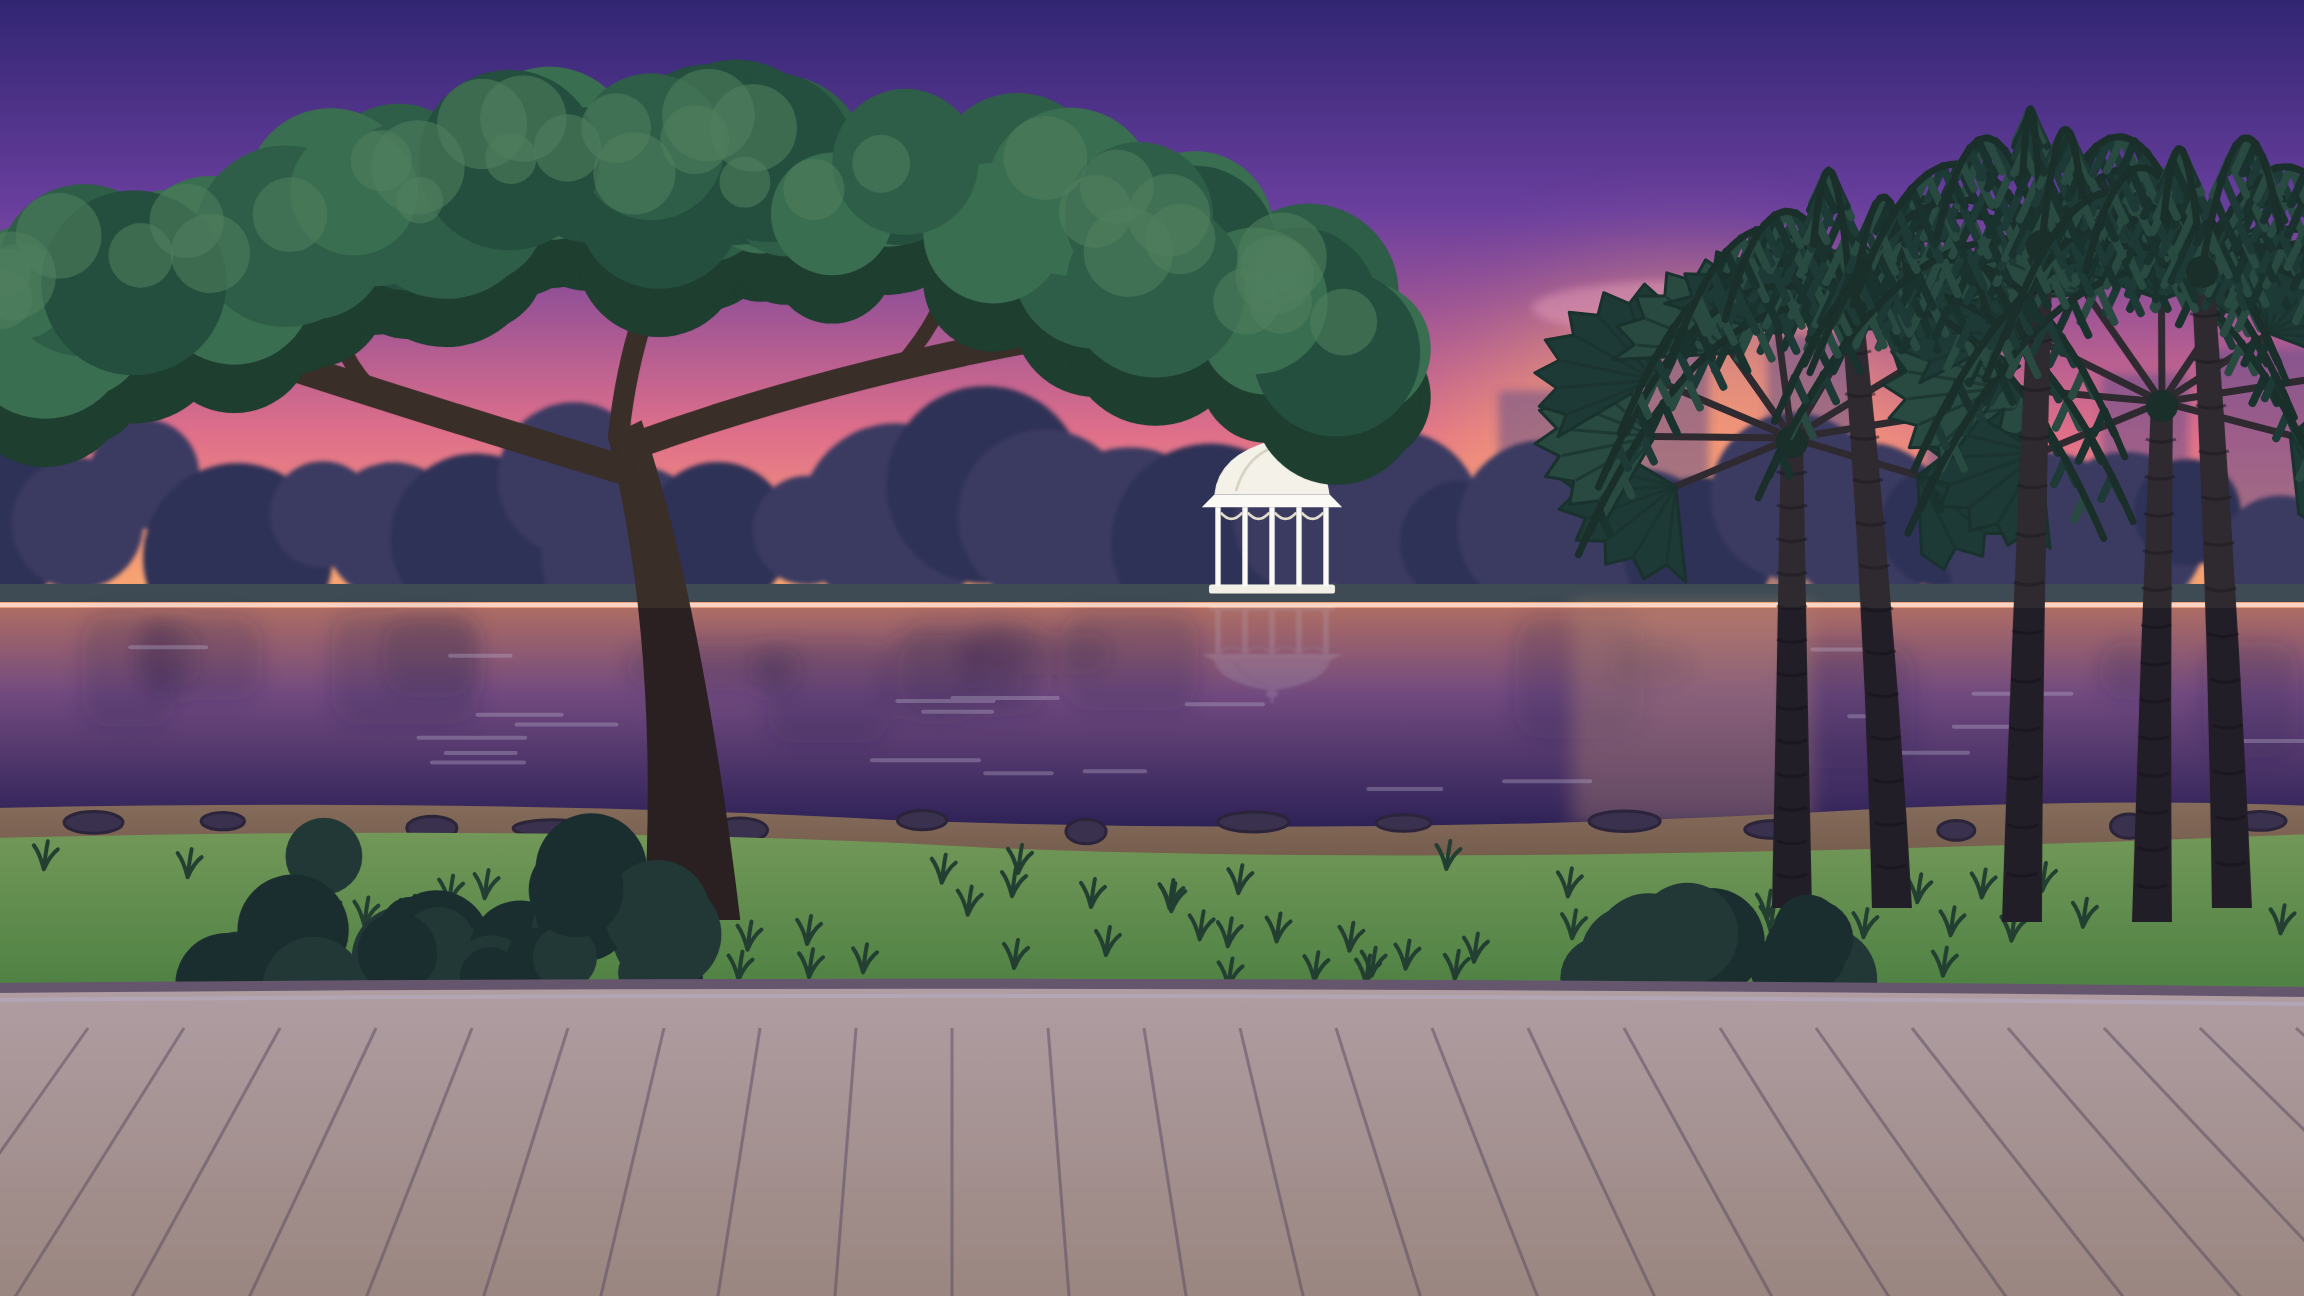
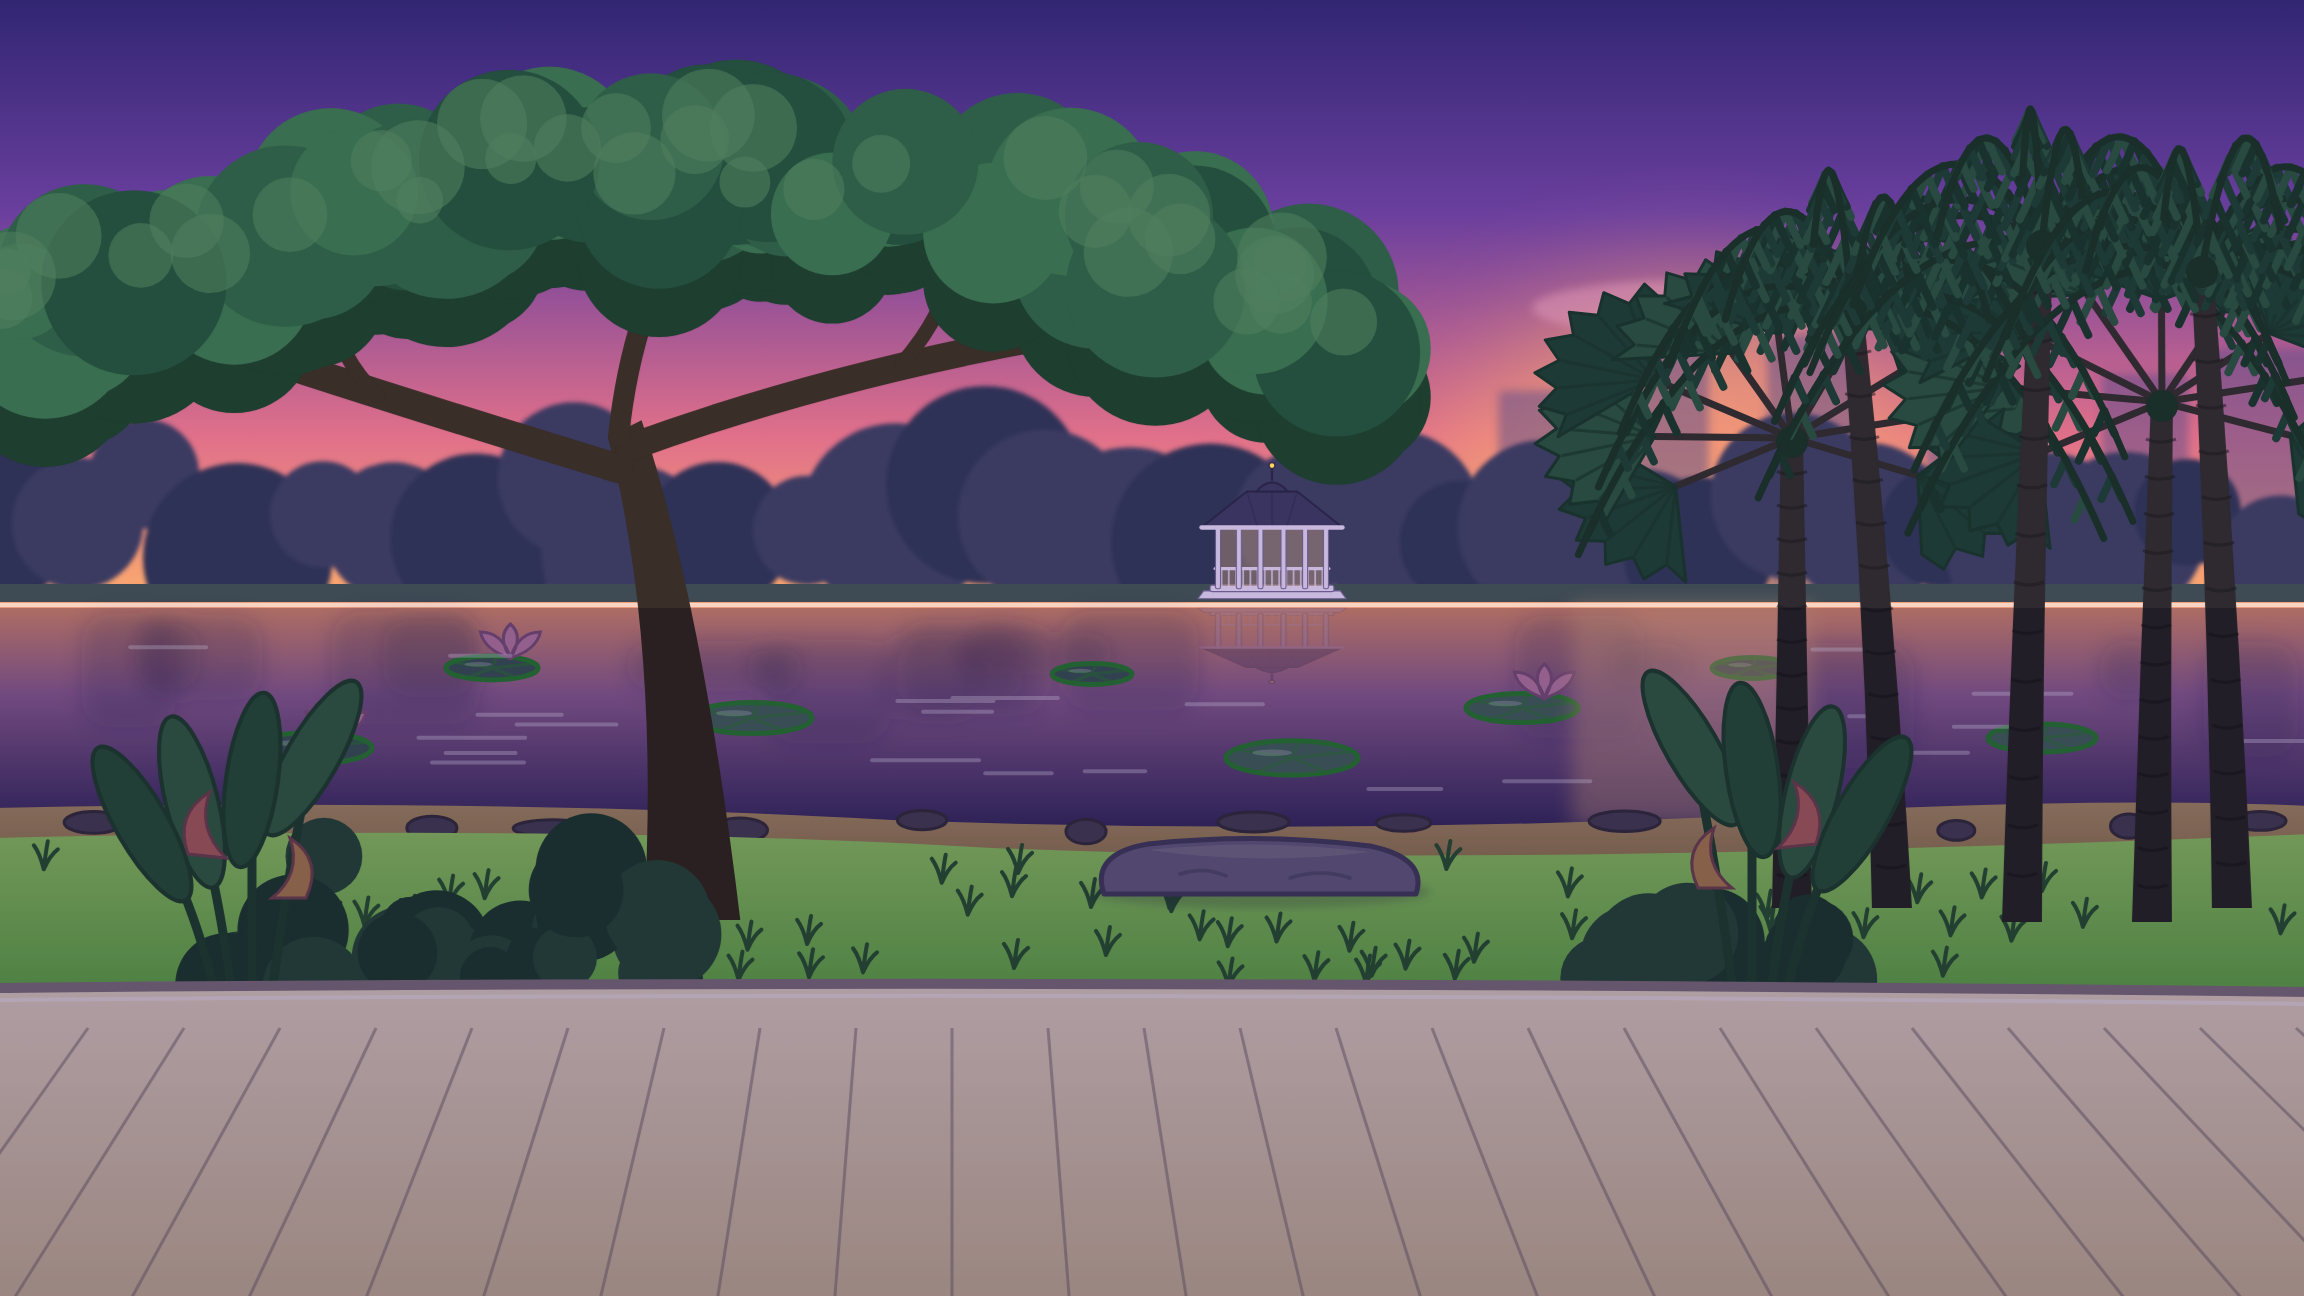
Work in progress (snapshot)
Claude-Session: https://claude.ai/code/session_017vcscXTweEdXk7zMTDrzTD

diff --git a/production/workspace/explained2/ep06/gardens.js b/production/workspace/explained2/ep06/gardens.js
@@ -60,19 +60,29 @@ function lakeSet(mode) { const r = rndm(606), dk = mode === "dusk"; let far = ""
   ${dk ? `<circle cx="1500" cy="440" r="260" fill="#FFB46A" opacity=".55" filter="url(#b60)"/><circle cx="1500" cy="452" r="70" fill="#FFD9A0" opacity=".9"/>` : `<circle cx="160" cy="40" r="300" fill="url(#gdSun)"/><circle cx="160" cy="40" r="64" fill="#FFFBEA"/>`}
   <g fill="${dk ? "#E9A2C0" : "#fff"}" opacity="${dk ? .45 : .85}" filter="url(#b4)"><ellipse cx="700" cy="120" rx="190" ry="34"/><ellipse cx="840" cy="94" rx="110" ry="30"/><ellipse cx="1500" cy="200" rx="160" ry="28"/></g>
   <g filter="url(#b4)">${towers}</g><g filter="url(#b2)">${far}</g>
-  <rect x="-200" y="476" width="2320" height="22" fill="${dk ? "#3E4A54" : "#7DBF68"}"/>${TF(GD.gazebo[0], GD.gazebo[1] + 4, .9, gazebo())}
+  <rect x="-200" y="476" width="2320" height="22" fill="${dk ? "#3E4A54" : "#7DBF68"}"/>${TF(GD.gazebo[0], GD.gazebo[1] + 2, .36, bandstandF(dk))}
   <rect x="-200" y="494" width="2320" height="230" fill="url(#${dk ? "gdLakeD" : "gdLake"})"/><g filter="url(#b10)">${refl}</g>
-  <g transform="translate(${GD.gazebo[0]} 500) scale(.9 -.5)" opacity=".25" filter="url(#b2)">${gazebo()}</g>
+  <g transform="translate(${GD.gazebo[0]} 506) scale(.36 -.2)" opacity=".28" filter="url(#b2)">${bandstandF(dk)}</g>${[[300, 560, 46], [560, 610, 60], [900, 566, 40], [1330, 600, 56], [1560, 560, 40], [1100, 650, 66], [120, 640, 60], [1850, 630, 54]].map(([x, y, rx], i) => TF(x, y, 1, lilyPad(rx, dk ? (i % 2 ? "#4E6E6A" : "#445E62") : (i % 2 ? "#6FD06A" : "#5CC455")) + (i % 3 === 0 ? `<g transform="translate(${rx * .4} -10)"><path d="M0 0 q-14 -22 0 -34 q14 12 0 34z M0 0 q-26 -8 -30 -26 q22 0 30 26z M0 0 q26 -8 30 -26 q-22 0 -30 26z" fill="${dk ? "#C88AB0" : "#FF9EC4"}" stroke="${dk ? "#8A5A86" : "#D9608E"}" stroke-width="3"/></g>` : ""))).join("")}
   ${dk ? `<rect x="1380" y="498" width="240" height="220" fill="#FFC890" opacity=".35" filter="url(#b10)"/>` : ""}
   <path d="M-200 497 H2120" stroke="#fff" stroke-width="4" opacity=".55"/>
   <g fill="none" stroke="#fff" stroke-width="4" stroke-linecap="round" opacity=".35">${Array.from({ length: 22 }, () => { const x = -150 + r() * 2200, y = 520 + r() * 170; return `<path d="M${n2(x)} ${n2(y)} h${n2(30 + r() * 80)}"/>`; }).join("")}</g>
   <path d="M-200 700 Q300 690 700 712 Q1200 730 1700 700 Q1950 690 2120 698 V800 H-200z" fill="url(#gdBank)"/>${rocks}
   <path d="M-200 730 Q400 716 800 740 Q1300 760 2120 726 V940 H-200z" fill="url(#gdLawn)"/>${shade}${tufts}
-  ${TF(GD.palms, 0, 1, "")}${palms}
+  ${TF(GD.palms, 0, 1, "")}${palms}${baskRock(dk)}
   <g>${TF(500, 812, 1, rainTree(tr, 1.05, dk))}</g>
-  ${shrub(tr2, 150, 900, 240, 150, dk)}${shrub(tr2, 400, 906, 230, 130, dk)}${shrub(tr2, 1530, 900, 260, 120, dk)}
+  ${shrub(tr2, 150, 900, 240, 150, dk)}${shrub(tr2, 400, 906, 230, 130, dk)}${shrub(tr2, 1530, 900, 260, 120, dk)}${heliconia(1560, 890, dk)}${heliconia(60, 900, dk, -1)}
   <path d="M-200 880 Q900 870 2120 884 V1200 H-200z" fill="url(#gdPath)"/>${pave}<path d="M-200 880 Q900 870 2120 884" fill="none" stroke="${dk ? "#8A7A88" : "#B9A47E"}" stroke-width="10"/><path d="M-200 892 Q900 882 2120 896" fill="none" stroke="#fff" stroke-width="4" opacity=".45"/>
   ${dk ? `<rect x="-200" y="500" width="2320" height="700" fill="#4A2E7A" opacity=".38" style="mix-blend-mode:multiply"/>` : `<g style="mix-blend-mode:screen"><path d="M-200 -120 L500 -120 L1500 1200 L200 1200z" fill="#FFF0B8" opacity=".12" filter="url(#b30)"/></g>`}`; }
+// (Fable redraw) the Bandstand across the lake; a flat rock on the bank, out in the sun (the monitor lizard's warm rock); heliconias by the path
+const bandstandF = (dk = 0) => { const wh = dk ? "#C9B8DE" : "#FFFFFF", ln = dk ? "#6A5A8E" : "#B9C4CC", rf = dk ? "#3A3460" : "#55645F", rl = dk ? "#2A2448" : "#34403C"; let posts = "", rail = ""; [-150, -92, -32, 32, 92, 150].forEach((x) => { posts += `<rect x="${x - 7}" y="-170" width="14" height="172" rx="5" fill="${wh}" stroke="${ln}" stroke-width="3"/>`; }); for (let x = -150; x < 150; x += 20) rail += `<path d="M${x + 10} -52 V-4" stroke="${wh}" stroke-width="5" opacity=".8"/>`;
+  return `<path d="M-190 8 H190 L206 30 H-206z" fill="${wh}" stroke="${ln}" stroke-width="3"/><rect x="-172" y="-8" width="344" height="18" rx="5" fill="${wh}" stroke="${ln}" stroke-width="3"/><rect x="-150" y="-170" width="300" height="165" fill="${dk ? "#FFC890" : "#CFE7F5"}" opacity=".3"/>${rail}<path d="M-158 -54 H158" stroke="${wh}" stroke-width="9" stroke-linecap="round"/>${posts}
+  <path d="M-196 -168 L-70 -268 H70 L196 -168z" fill="${rf}" stroke="${rl}" stroke-width="5" stroke-linejoin="round"/><path d="M-70 -268 L-40 -168 M70 -268 L40 -168 M0 -268 V-168" stroke="${rl}" stroke-width="3" opacity=".5"/><path d="M-196 -168 H196" stroke="${wh}" stroke-width="12" stroke-linecap="round"/>
+  <path d="M-44 -268 Q0 -318 44 -268z" fill="${rf}" stroke="${rl}" stroke-width="5"/><path d="M0 -300 V-336" stroke="${rl}" stroke-width="6" stroke-linecap="round"/><circle cy="-340" r="8" fill="#FFD75A" stroke="${rl}" stroke-width="3"/>`; };
+const ROCKW = [1068, 742];   // the middle of the warm rock's flat top
+const baskRock = (dk = 0) => { const [x, y] = ROCKW; return `<ellipse cx="${x}" cy="${y + 42}" rx="170" ry="16" fill="#2B2147" opacity=".22" filter="url(#b4)"/><path d="M${x - 156} ${y + 44} Q${x - 170} ${y + 4} ${x - 112} ${y - 6} Q${x} ${y - 18} ${x + 110} ${y - 4} Q${x + 168} ${y + 8} ${x + 156} ${y + 44}z" fill="${dk ? "#6E668A" : "url(#fRock)"}" stroke="${dk ? "#4A4468" : "#6E685C"}" stroke-width="5" stroke-linejoin="round"/>
+  <path d="M${x - 112} ${y} Q${x} ${y - 12} ${x + 110} ${y + 2} Q${x} ${y + 16} ${x - 112} ${y}z" fill="#FFF3C9" opacity="${dk ? .12 : .6}"/><path d="M${x - 80} ${y + 24} q24 -8 46 2 M${x + 30} ${y + 28} q30 -10 60 0" stroke="${dk ? "#4A4468" : "#6E685C"}" stroke-width="3.5" stroke-linecap="round" fill="none" opacity=".5"/>`; };
+const heliconia = (x, y, dk = 0, f = 1) => `<g transform="translate(${x} ${y}) scale(${f} 1)">${[[-60, -30], [0, -8], [60, 14], [110, 30]].map(([dx, a], i) => `<path d="M${dx * .3} 0 Q${dx * .6} -140 ${dx} ${-250 + i * 22}" stroke="${dk ? "#24483A" : "#2F8A4C"}" stroke-width="9" fill="none" stroke-linecap="round"/><ellipse cx="${dx}" cy="${-250 + i * 22}" rx="26" ry="88" fill="${dk ? (i % 2 ? "#2E5A44" : "#3A6A4E") : (i % 2 ? "#3FA85A" : "#56BF62")}" stroke="${dk ? "#24483A" : "#2F8A4C"}" stroke-width="4" transform="rotate(${a} ${dx} ${-250 + i * 22})"/>`).join("")}
+  <path d="M26 -150 q30 -30 16 -66 q36 22 22 62z" fill="${dk ? "#B86A6A" : "#FF8F4A"}" stroke="${dk ? "#7A4A5A" : "#D9601E"}" stroke-width="3"/><path d="M-20 -110 q-30 -24 -18 -60 q-34 22 -16 60z" fill="${dk ? "#B88A5A" : "#FFB03A"}" stroke="${dk ? "#7A4A5A" : "#D9601E"}" stroke-width="3"/></g>`;
 BG.lake = () => lakeSet("am");
 BG.lakedusk = () => lakeSet("dusk");
 // the lamp post is drawn live (it lights up at dusk and the lizard sits on it)
